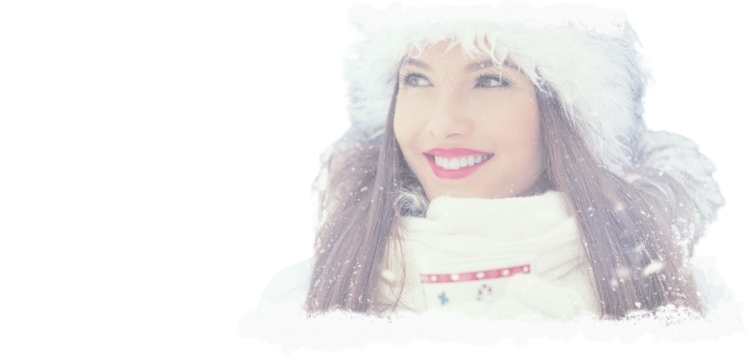
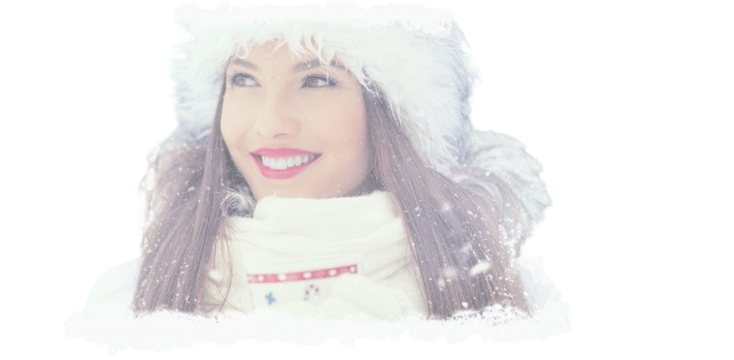
Changes

diff --git a/barad-dental.html b/barad-dental.html
@@ -21,86 +21,121 @@
     <div id="preloader"></div>
     <header>
         <div class="container">
-            <a href=""><img src="images/logo.png" alt="" loading="lazy"></a>
+            <div class="logo">
+                <img class="star star-s4" src="images/aiLogo.png" alt="">
+                <div>Barad Dental Clinic</div>
+            </div>
             <ul class="navlist">
                 <li>
-                    <a href="#">Home</a>
+                    <a href="barad-dental">Home</a>
                 </li>
                 <li>
-                    <a href="#">Services </a>
+                    <a href="#">Services
+                    </a>
                     <ul class="submenu">
                         <li>
                             <a href="therapeutical-services" class="dr">Therapeutic</a>
                             <ul class="submenu">
-                                <li><a href="fillings" class="dr">Teeth Restoration</a></li>
                                 <li>
-                                    <a href="#" class="dr" style="background-color: grey; color: beige;">Teeth Replacement</a>
-                                    <ul class="submenu">
-                                        <li><a href="" class="dr" style="background-color: grey; color: beige;">Bridges</a></li>
-                                        <li><a href="" class="dr" style="background-color: grey; color: beige;">Dental Implants</a></li>
-                                        <li><a href="" class="dr" style="background-color: grey; color: beige;">Dentures</a></li>
-                                    </ul>
-                                </li>
-                                <li><a href="" class="dr" style="background-color: grey; color: beige;">Gum Therapy</a>
-                                    <ul class="submenu">
-                                        <li><a href="#" class="dr" style="background-color: grey; color: beige;">Teeth Debridement</a></li>
-                                        <li><a href="#" class="dr" style="background-color: grey; color: beige;">Scaling</a></li>
-                                        <li><a href="#" class="dr" style="background-color: grey; color: beige;">Deep Scaling</a></li>
-
-                                    </ul>
+                                    <a href="fillings" class="dr">Teeth Restoration</a>
                                 </li>
                                 <li>
-                                    <a href="#" class="dr" style="background-color: grey; color: beige;">Infections & Problems</a>
+                                    <a href="#" class="dr" style="background-color: gray; color: beige;">Teeth
+                                        Replacement</a>
                                     <ul class="submenu">
-                                        <li><a href="" class="dr" style="background-color: grey; color: beige;">Gum/Bone diseases</a></li>
-                                        <li><a href="" class="dr" style="background-color: grey; color: beige;">Infected Teeth Abscesses</a></li>
-                                        <li><a href="" class="dr" style="background-color: grey; color: beige;">TMJ problems</a></li>
-                                        <li><a href="" class="dr" style="background-color: grey; color: beige;">Dental Implants</a></li>
+                                        <li><a href="" class="dr"
+                                                style="background-color: gray; color: beige;">Replacing Missing
+                                                Teeth</a></li>
+                                        <li><a href="" class="dr"
+                                                style="background-color: gray; color: beige;">Correcting Misaligned
+                                                Teeth</a></li>
+                                        <li><a href="" class="dr"
+                                                style="background-color: gray; color: beige;">Replacing Imperfect
+                                                Teeth</a></li>
+                                        <li><a href="" class="dr"
+                                                style="background-color: gray; color: beige;">Replacing partial or
+                                                complete loss of Teeth with
+                                                Implants</a></li>
                                     </ul>
                                 </li>
-                                <li><a href="#" class="dr" style="background-color: grey; color: beige;">Depigmentation of Gums</a></li>
-                                <li><a href="#" class="dr" style="background-color: grey; color: beige;">Bruxism</a></li>
-                                <li><a href="#" class="dr" style="background-color: grey; color: beige;">Treating ..Pedo</a></li>
+                                <li>
+                                    <a href="#" class="dr" style="background-color: gray; color: beige;">Infections &
+                                        Problems</a>
+                                    <ul class="submenu">
+                                        <li><a href="" class="dr" style="background-color: gray; color: beige;">Treating
+                                                gum/bone diseases</a></li>
+                                        <li><a href="" class="dr" style="background-color: gray; color: beige;">Treating
+                                                Infected Teeth Abscesses</a></li>
+                                        <li><a href="" class="dr" style="background-color: gray; color: beige;">Treating
+                                                TMJ problems</a></li>
+                                        <li><a href="" class="dr"
+                                                style="background-color: gray; color: beige;">Replacing partial or
+                                                complete loss of Teeth with
+                                                Implants</a></li>
+                                    </ul>
+                                </li>
+                                <li><a href="#" class="dr" style="background-color: gray; color: beige;">Professional
+                                        Teeth Debridement</a></li>
+                                <li><a href="#" class="dr" style="background-color: gray; color: beige;">Depigmentation
+                                        of Coloured Gums</a></li>
+                                <li><a href="#" class="dr" style="background-color: gray; color: beige;">Treating
+                                        Bruxism with Night Guard</a></li>
+                                <li><a href="#" class="dr" style="background-color: gray; color: beige;">Treating
+                                        ..Pedo</a></li>
                             </ul>
                         </li>
                         <li>
-                            <a href="preventive-treatments" class="dr">Preventive</a>
+                            <a href="preventive-treatments" class="dr">Preventive
+                            </a>
                             <ul class="submenu">
                                 <li><a href="space-maintainers" class="dr">Space maintainers</a></li>
-                                <li><a href="#" class="dr" style="background-color: grey; color: beige;">Fluoride application</a></li>
-                                <li><a href="#" class="dr" style="background-color: grey; color: beige;">Pit and Fissure Sealant</a></li>
-                                <li><a href="#" class="dr" style="background-color: grey; color: beige;">Systematic Recalls</a></li>
+                                <li><a href="#" class="dr" style="background-color: gray; color: beige;">Fluoride
+                                        application</a></li>
+                                <li><a href="#" class="dr" style="background-color: gray; color: beige;">Pit and Fissure
+                                        Sealant</a></li>
+                                <li><a href="#" class="dr" style="background-color: gray; color: beige;">Systematic
+                                        Recalls</a></li>
                             </ul>
                         </li>
                         <li>
-                            <a href="aesthetics" class="dr">Aesthetics</a>
+                            <a href="aesthetics" class="dr">Aesthetics
+                            </a>
                             <ul class="submenu">
-                                <li><a href="#" class="dr" style="background-color: grey; color: beige;">Hollywood Smile</a></li>
+                                <li><a href="#" class="dr" style="background-color: gray; color: beige;">Hollywood
+                                        Smile</a></li>
                                 <li><a href="veneers" class="dr">Veneers</a></li>
-                                <li><a href="#" class="dr" style="background-color: grey; color: beige;">Nano-hybrid filled Composite fillings</a></li>
-                                <li><a href="#" class="dr" style="background-color: grey; color: beige;">Polishing</a></li>
-                                <li><a href="#" class="dr" style="background-color: grey; color: beige;">Teeth alignment</a></li>
-                                <li><a href="#" class="dr" style="background-color: grey; color: beige;">Teeth Size and shape Correction</a></li>
+                                <li><a href="#" class="dr" style="background-color: gray; color: beige;">Nano-hybrid
+                                        filled Composite fillings</a></li>
+                                <li><a href="#" class="dr" style="background-color: gray; color: beige;">Polishing</a>
+                                </li>
+                                <li><a href="#" class="dr" style="background-color: gray; color: beige;">Teeth
+                                        alignment</a></li>
+                                <li><a href="#" class="dr" style="background-color: gray; color: beige;">Teeth Size and
+                                        shape Correction</a></li>
                             </ul>
                         </li>
-                        <li><a href="programs" class="dr">Barad Programs</a></li>
+                        <li><a href="#" class="dr">Barad Programs</a></li>
                     </ul>
                 </li>
                 <li>
                     <a href="#">Activities</a>
                     <ul class="submenu">
-                        <li><a href="#" class="dr" style="background-color: grey; color: beige;">Dental History</a></li>
-                        <li><a href="#" class="dr" style="background-color: grey; color: beige;">Facts & Memes</a></li>
+                        <li><a href="#" class="dr" style="background-color: gray; color: beige;">Dental History</a></li>
+                        <li><a href="#" class="dr" style="background-color: gray; color: beige;">Facts & Memes</a></li>
                         <li>
-                            <a href="#" class="dr" style="background-color: grey; color: beige;">Tournaments</a>
+                            <a href="#" class="dr" style="background-color: gray; color: beige;">Tournaments</a>
                             <ul class="submenu">
-                                <li><a href="#" class="dr" style="background-color: grey; color: beige;">Challenge Zone</a></li>
-                                <li><a href="#" class="dr" style="background-color: grey; color: beige;">Hard Level</a></li>
-                                <li><a href="#" class="dr" style="background-color: grey; color: beige;">Medium Level</a></li>
-                                <li><a href="#" class="dr" style="background-color: grey; color: beige;">Easy Level</a></li>
+                                <li><a href="#" class="dr" style="background-color: gray; color: beige;">Challenge
+                                        Zone</a></li>
+                                <li><a href="#" class="dr" style="background-color: gray; color: beige;">Hard Level</a>
+                                </li>
+                                <li><a href="#" class="dr" style="background-color: gray; color: beige;">Medium
+                                        Level</a></li>
+                                <li><a href="#" class="dr" style="background-color: gray; color: beige;">Easy Level</a>
+                                </li>
                             </ul>
                         </li>
-                        <li><a href="#" class="dr" style="background-color: grey; color: beige;">Games & Quizes</a></li>
+                        <li><a href="#" class="dr" style="background-color: gray; color: beige;">Games & Quizes</a></li>
                     </ul>
                 </li>
                 <li>

diff --git a/programs.css b/programs.css
@@ -455,7 +455,7 @@ header .container {
 }
 /* -----------------banner------------- */
 .banner{
-    background-image: url(images/Screenshot_2024-01-21_231749-removebg-preview.png);
+    background-image: url(images/fam.png);
     background-repeat: no-repeat;
     background-size: cover;
     background-position: center;
@@ -508,11 +508,12 @@ header .container {
     flex-direction: column;
     align-items: center;
     padding-top: 80px;
+    width: 100%;
     flex-wrap: wrap;
 }
 .program:nth-child(1){
     background-image: url(images/girl.png);
-    background-position: right;
+    background-position: center;
     background-repeat: no-repeat;
     background-size: contain;
 }
@@ -559,6 +560,7 @@ header .container {
 }
 .explanation{
     display: flex;
+    width: 100%;
     justify-content: center;
     align-items: flex-start;
 }
@@ -594,12 +596,26 @@ header .container {
     }
     .barad-smile p{
         width: 90%;
+        padding: 0;
+    }
+    .barad-smile h1{
+        flex-direction: column;
+        align-items: flex-end;
     }
     .barad-smile{
         flex-direction: column;
     }
     .explanation{
         flex-direction: column;
+    }
+    .out, .req, .out h3, .req h3{
+        padding-left: 0rem;
+    }
+    .out h3, .req h3{
+        padding-right: 1rem;
+    }
+    .dental-lists li{
+        padding: 0 1rem 0 0;
     }
 }
 

diff --git a/make-shift.css b/make-shift.css
@@ -109,12 +109,6 @@ p,
     font-size: 1.5rem;
     text-transform: none;
 }
-.navlist .thera{
-    padding: 0 1rem;
-}
-.navlist .fa{
-    font-size: 14px;
-}
 .navlist a:hover{
     color: #92A4A8;
 }
@@ -207,7 +201,7 @@ li.move-right{
     transition: 1s;
 }
 .button:hover{
-    color: #ffd700;
+    color: #92A4A8;
     background-color: black;
 }
 .hea{
@@ -268,12 +262,6 @@ header .container {
         color: #f6f7f7;
     }
 }
-/* .container h2 {
-    color: white;
-    text-transform: uppercase;
-    font-size: 32px;
-    font-weight: 900;
-} */
 .container h2 span{
     color: #ffd700;
 }
@@ -373,7 +361,7 @@ nav a{
     color: white;
     font-size: 55px;
     margin-bottom: 32px;
-    margin-top: 155px;
+    margin-top: 125px;
 }
 .container h1 span{
     color: #F6F7F7;
@@ -448,6 +436,26 @@ nav a{
     .mobile-nav, .hamburger{
         display: none;
     }
+}
+
+.logo {
+    display: flex;
+    align-items: center;
+    font-size: 2.4rem;
+    font-weight: 600;
+    color: #f6f7f7;
+}
+
+.star {
+    width: 1.4rem;
+    object-fit: cover;
+    margin-right: 4px;
+}
+.star-s1{
+    width: 10rem;
+}
+.star-s4 {
+    width: 3rem;
 }
 .tit{
     display: inline-block;

diff --git a/Gallery.css b/Gallery.css
@@ -22,11 +22,6 @@ html {
 }
 
 body {
-    background: url(images/pxfuel.jpg);
-    background-attachment: fixed;
-    background-position: top right;
-    background-size: cover;
-    color: #2C3E53;
     max-width: 100vw;
     overflow-x: hidden;
 }
